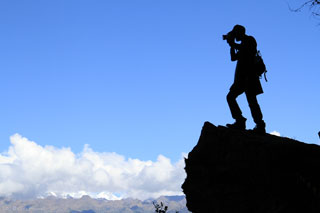
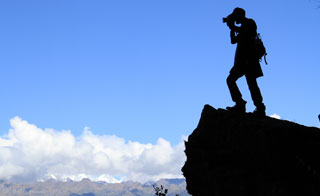
Reduce height of image, finish hero section.

diff --git a/app/assets/stylesheets/desktop/_pages.sass b/app/assets/stylesheets/desktop/_pages.sass
@@ -1,17 +1,25 @@
 /* Home
   -----------------------
 
-.hero
-  margin-bottom: 1em
+.tagline
+  margin-top: 4.909em
+  h1
+    margin: 0
+    font-size: 2.618em
+  p
+    font-size: 1.618em
 
   +at-breakpoint($break6)
-    +span-columns(6 omega, $break6)
+    +span-columns(3, $break6)
+    +pad(1, $break6)
 
   +at-breakpoint($break9)
-    +span-columns(9 omega, $break9)
+    +span-columns(4, $break9)
+    +pad(1, $break9)
 
   +at-breakpoint($break12)
-    +span-columns(12 omega, $break12)
+    +span-columns(6, $break12)
+    +pad(2, $break12)
 
 .start-project
   text-align: center
@@ -27,30 +35,16 @@
 
   +at-breakpoint($break6)
     +span-columns(3, $break6)
-    margin-top: 6.854em
+    +pad(1, $break6)
+    margin-top: 1.875em
 
   +at-breakpoint($break9)
     +span-columns(5, $break9)
+    +pad(1, $break9)
 
   +at-breakpoint($break12)
     +span-columns(6, $break12)
-
-.tagline
-  margin-top: 2.618em
-  h1
-    margin: 0
-    font-size: 2.618em
-  p
-    font-size: 1.618em
-
-  +at-breakpoint($break6)
-    +span-columns(3 omega, $break6)
-
-  +at-breakpoint($break9)
-    +span-columns(4 omega, $break9)
-
-  +at-breakpoint($break12)
-    +span-columns(6 omega, $break12)
+    +pad(2, $break12)
 
 .testimonial
   +hidden

diff --git a/app/assets/stylesheets/mobile/_pages.sass b/app/assets/stylesheets/mobile/_pages.sass
@@ -1,11 +1,14 @@
 /* Home
   -----------------------
 
-.hero
-  margin-bottom: 1em
+.tagline
+  h1
+    margin: 0
+    font-size: 1.618em
 
   +at-breakpoint($break6)
-    +span-columns(6 omega, $break6)
+    +span-columns(3, $break6)
+    +pad(1, $break6)
 
 .start-project
   text-align: center
@@ -16,16 +19,8 @@
 
   +at-breakpoint($break6)
     +span-columns(3, $break6)
-    margin-top: 6.854em
-
-.tagline
-  h1
-    margin: 0
-    font-size: 1.618em
-
-  +at-breakpoint($break6)
-    +span-columns(3 omega, $break6)
-
+    +pad(1, $break6)
+    margin-top: 1.875em
 
 /* Work
   -----------------------

diff --git a/app/assets/stylesheets/desktop/_layout.sass b/app/assets/stylesheets/desktop/_layout.sass
@@ -29,7 +29,7 @@ body
     // +susy-grid-background
 
 #hero
-  height: 760px
+  height: 46.971em
   background-color: $bg-hero
 
 #main
